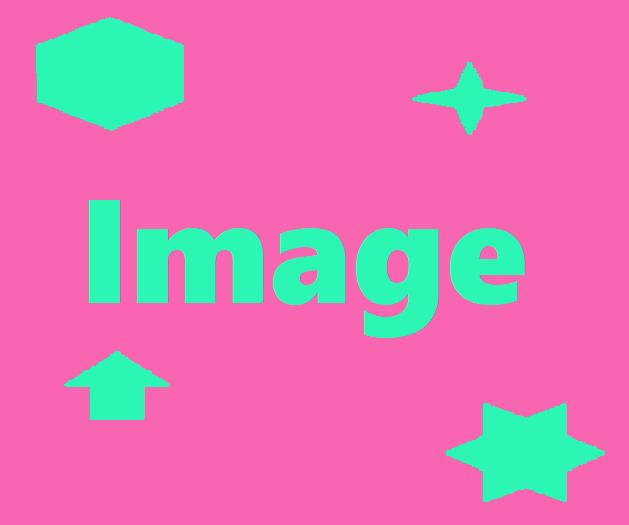
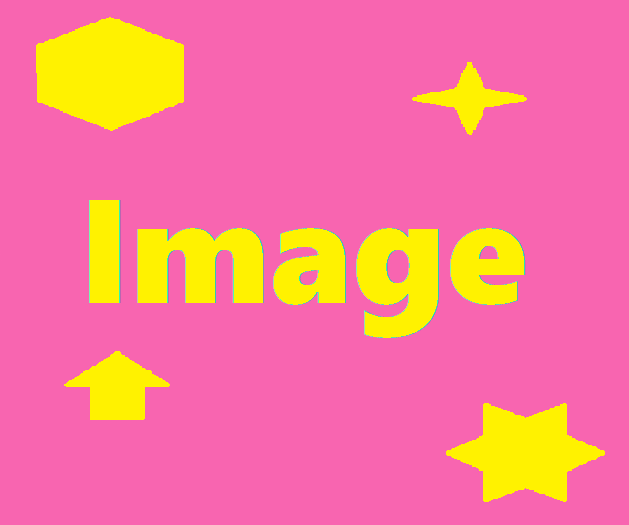
Pretty yellow pictures + demo updates

diff --git a/demo/demo.css b/demo/demo.css
@@ -17,8 +17,8 @@ a:hover                         { color: #1DC8EE; }
 
 /* PAGE LAYOUT */
 .wrapper                        { display: grid; min-height: 100vh; grid-row-gap: 30px; grid-template-areas: 'lh head rh' 'lb cont rb'; grid-template-columns: 5% auto 5%; grid-template-rows: auto 1fr; }
-.header                         { grid-area: head; align-self: flex-end; padding: 30px 0; border-bottom: 1px solid #C0C0C0; }
-.main-content                   { grid-area: cont; display: grid; grid-gap: 30px; grid-template-areas: 'h h' 'image preview'; grid-template-columns: 50% 50%; justify-items: start; align-items: end; align-self: start; margin-bottom: 100px; }
+.header                         { grid-area: head; padding: 30px 0; border-bottom: 1px solid #C0C0C0; }
+.main-content                   { grid-area: cont; display: grid; grid-gap: 30px 5%; grid-template-areas: 'h h' 'image preview'; grid-template-columns: 50% 50%; justify-items: start; align-items: end; align-self: start; margin-bottom: 100px; }
 .main-content .sub-heading      { grid-area: h; }
 #crop1                          { grid-area: image; }
 #preview1                       { grid-area: preview; }
@@ -35,5 +35,6 @@ a:hover                         { color: #1DC8EE; }
 
 /* MOBILE OPT */
 @media screen and (max-width: 640px) {
-    .wrapper                    { padding: 0 3%; grid-template-columns: 1fr; grid-template-areas: 'head' 'cont'; }
+    .wrapper                    { padding: 0 4%; grid-template-columns: 1fr; grid-template-areas: 'head' 'cont'; }
+    .main-content               { grid-template-columns: 1fr; grid-template-areas: 'h' 'image' 'preview'; }
 }

diff --git a/src/img-crop.js b/src/img-crop.js
@@ -365,7 +365,7 @@ function Crop(options) {
         if (self.preview) {
             self.preview.classList.add('preview-wrapper');
         }
-        self.img_url = self.img_url ? self.img_url : 'test-image-1.png'
+        self.img_url = self.img_url ? self.img_url : 'test-image-2.png'
 
         generate_crop_template()
         bind_events()
